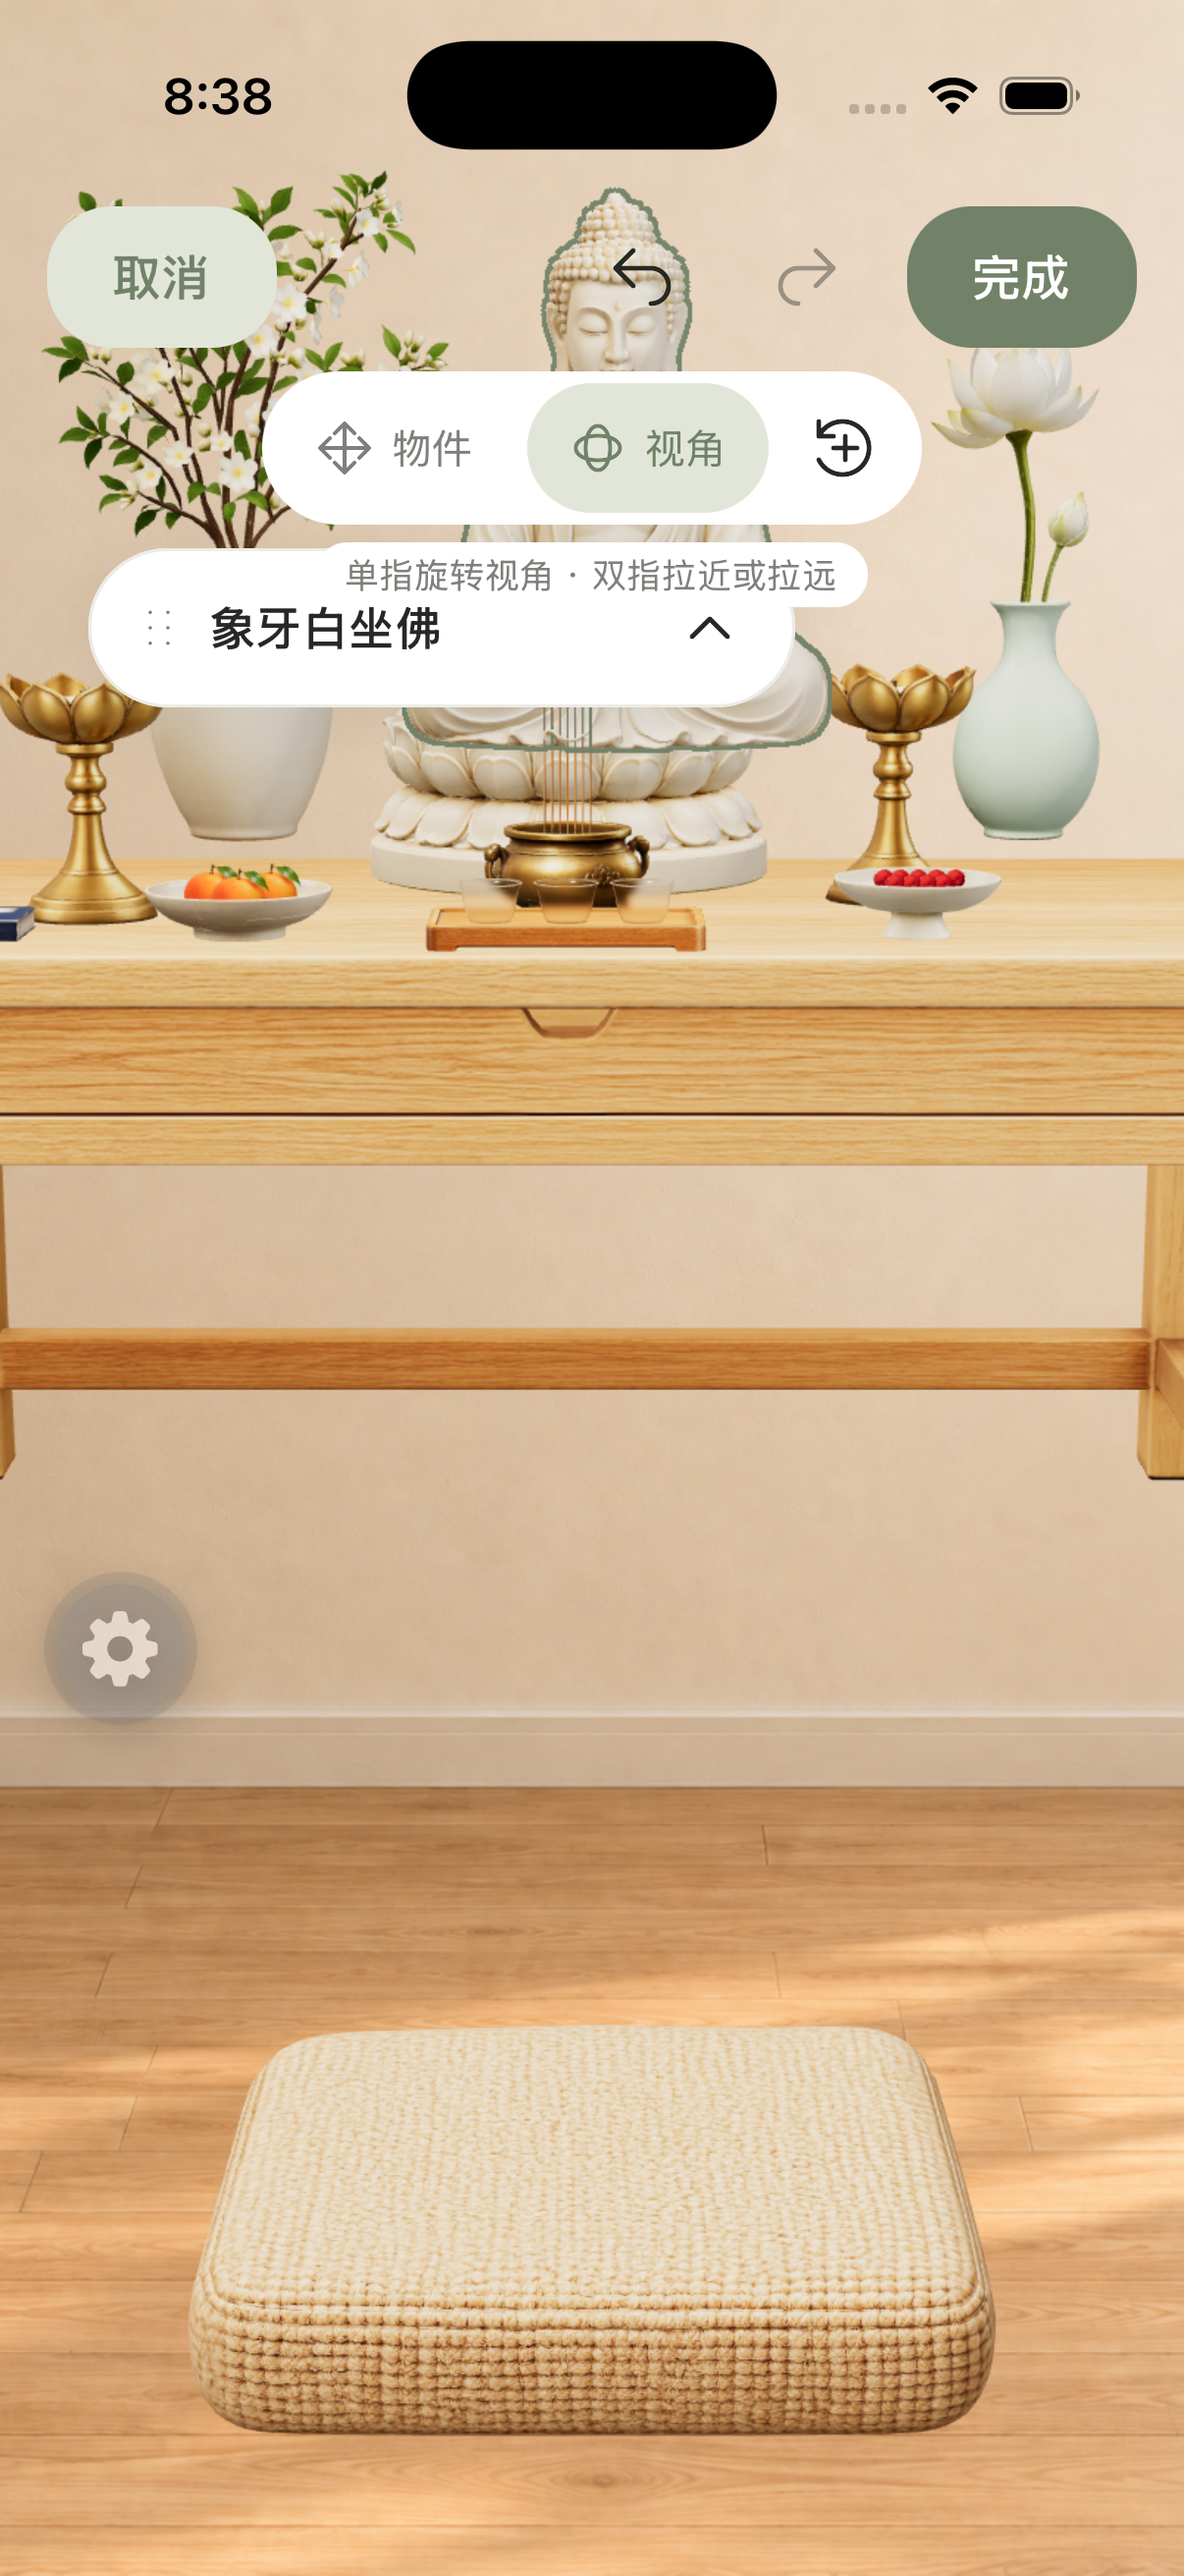
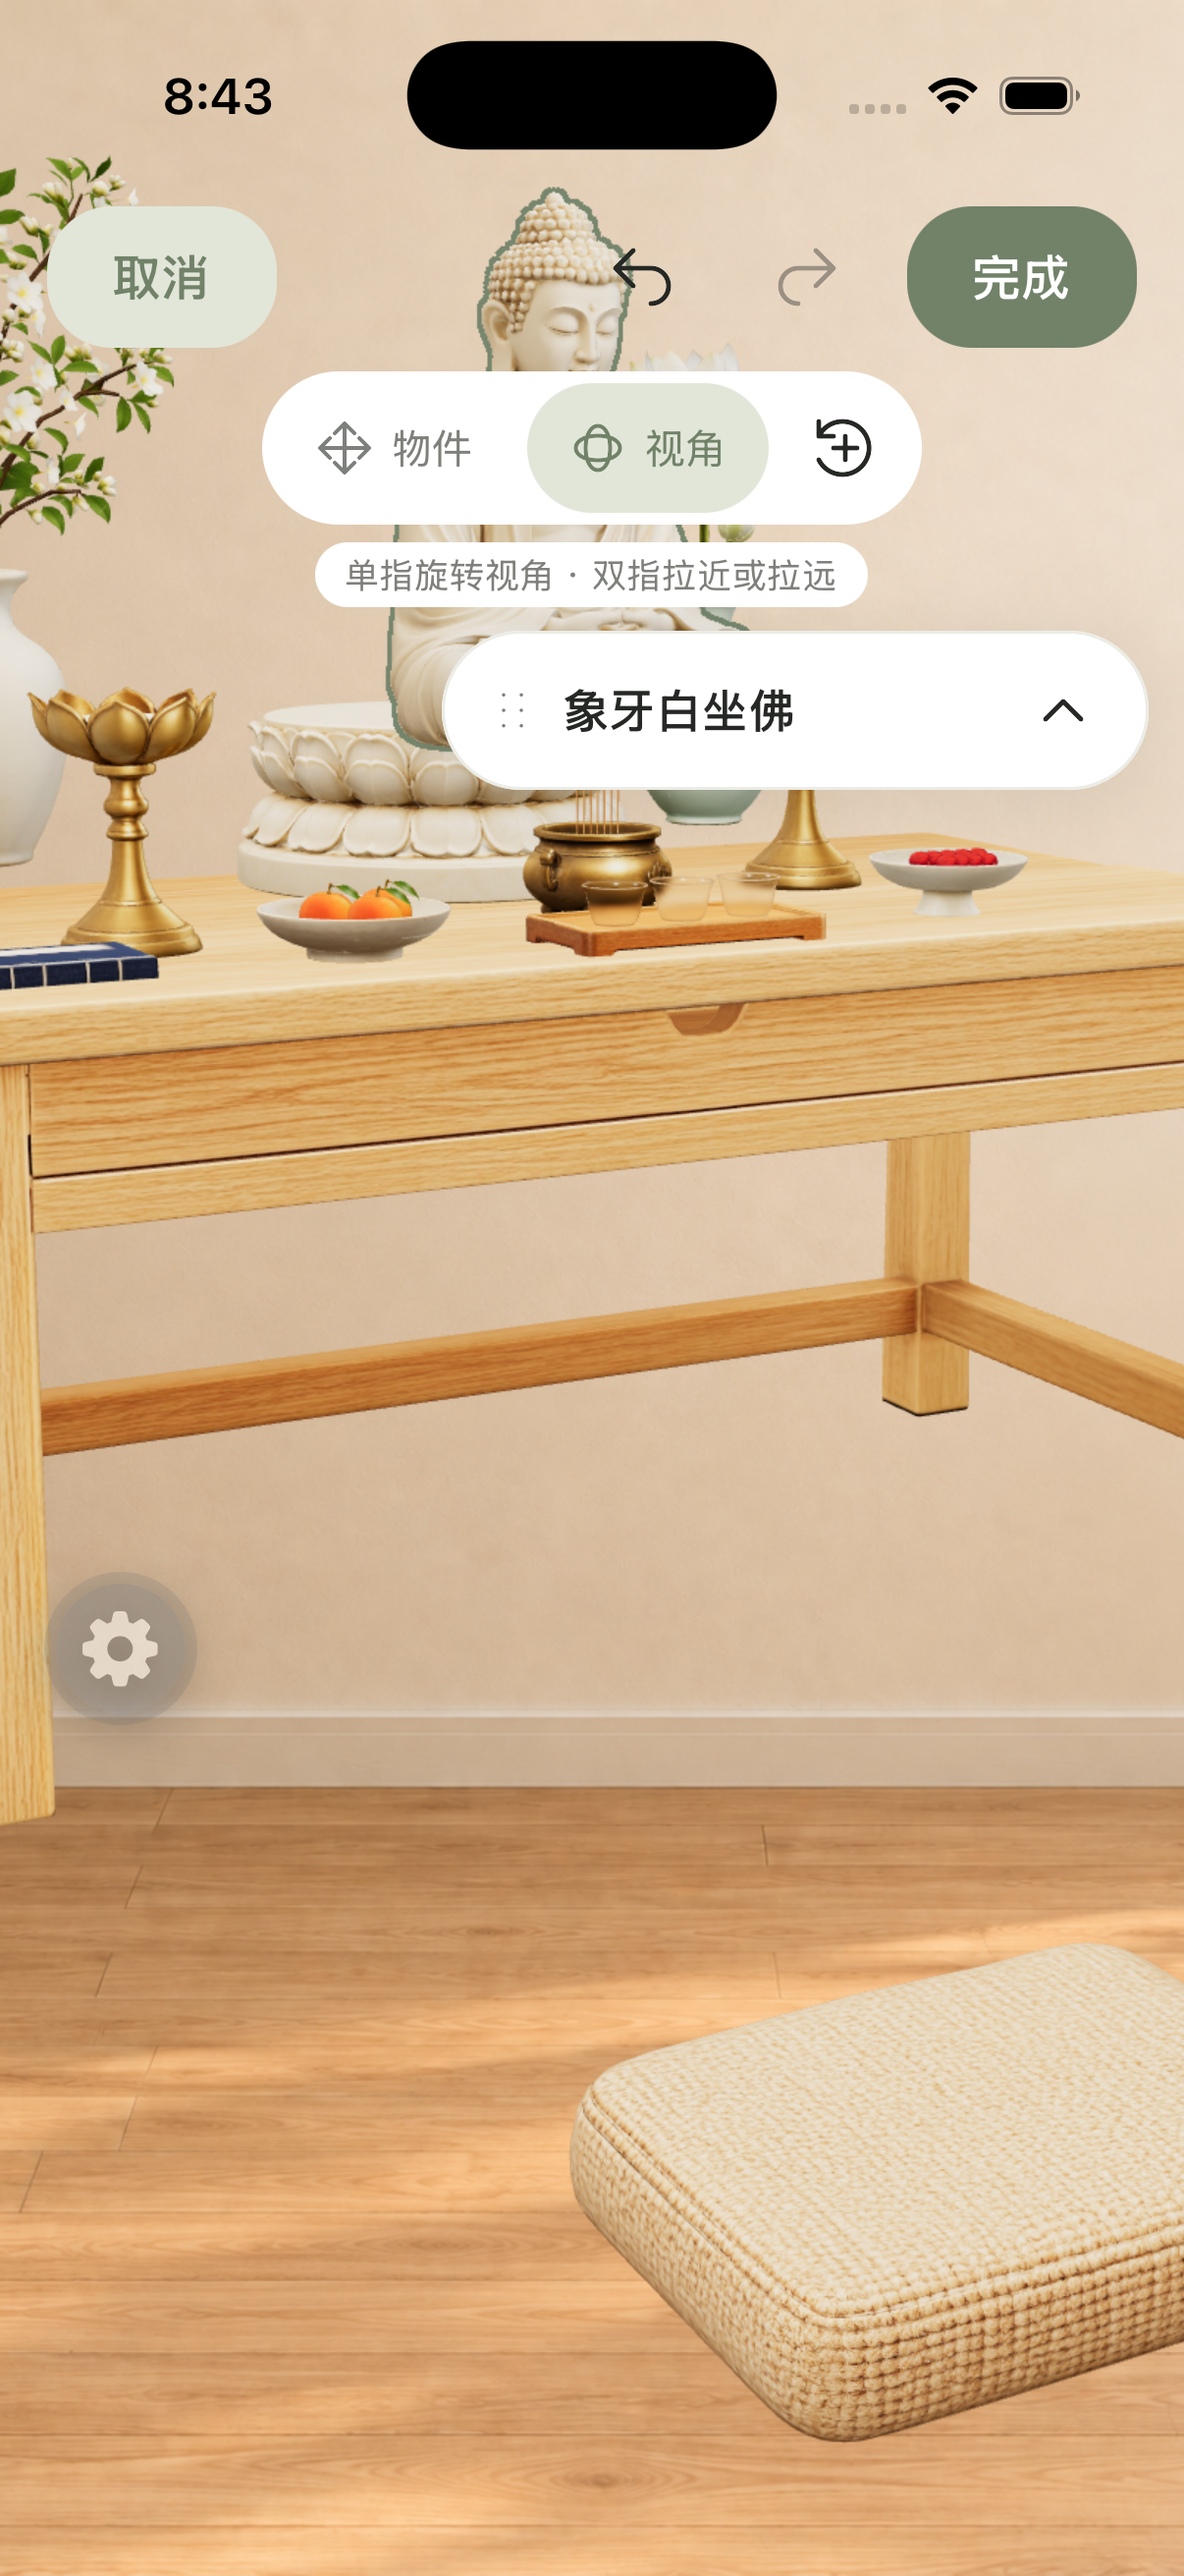
docs: refresh editor captures after safe area fix

diff --git a/reviews/altar-editor-20260924/README.md b/reviews/altar-editor-20260924/README.md
@@ -6,3 +6,5 @@ iphone-gl-before-floating-editor.png: physical iPhone 11 Expo GL render, capture
 simulator-editor-expanded.png: complete React Native editor UI on iPhone 17 Pro simulator. Uses the isolated WebView comparison renderer on port 8083 for layout checks; the physical iPhone app keeps Expo GL. Shows the preserved existing draft, not a reset theme. Captured 2026-09-25.
 
 Additional complete simulator UI states: collapsed, moved to the upper-right safe area and expanded, scene-view mode. Native React handlers / PanResponder events were invoked by the inspector. These captures verify layout, not real-finger performance. Existing draft preserved; no model transforms were edited.
+
+Final captures include the measured toolbar-height overlap fix. The scene-view screenshot applies a synthetic 60 pt horizontal pointer drag through the canvas gesture adapter; orbit-reset restores the published camera. Scene transforms remained byte-for-byte unchanged in the runtime check. These are simulator UI checks, not physical iPhone finger or GPU-performance results.
